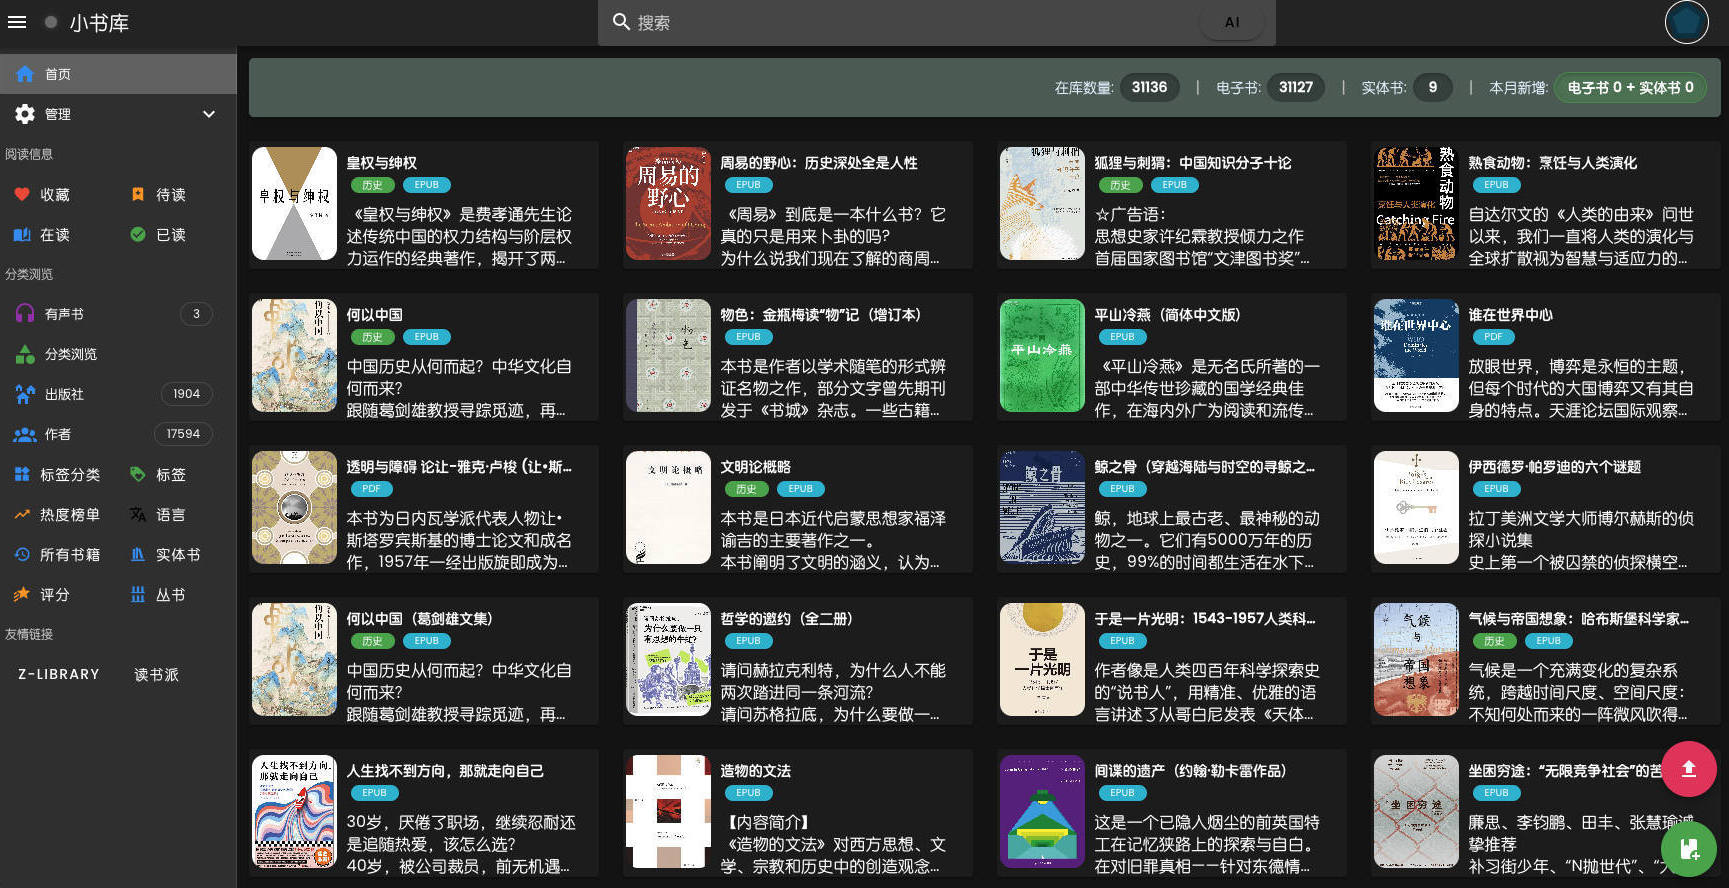
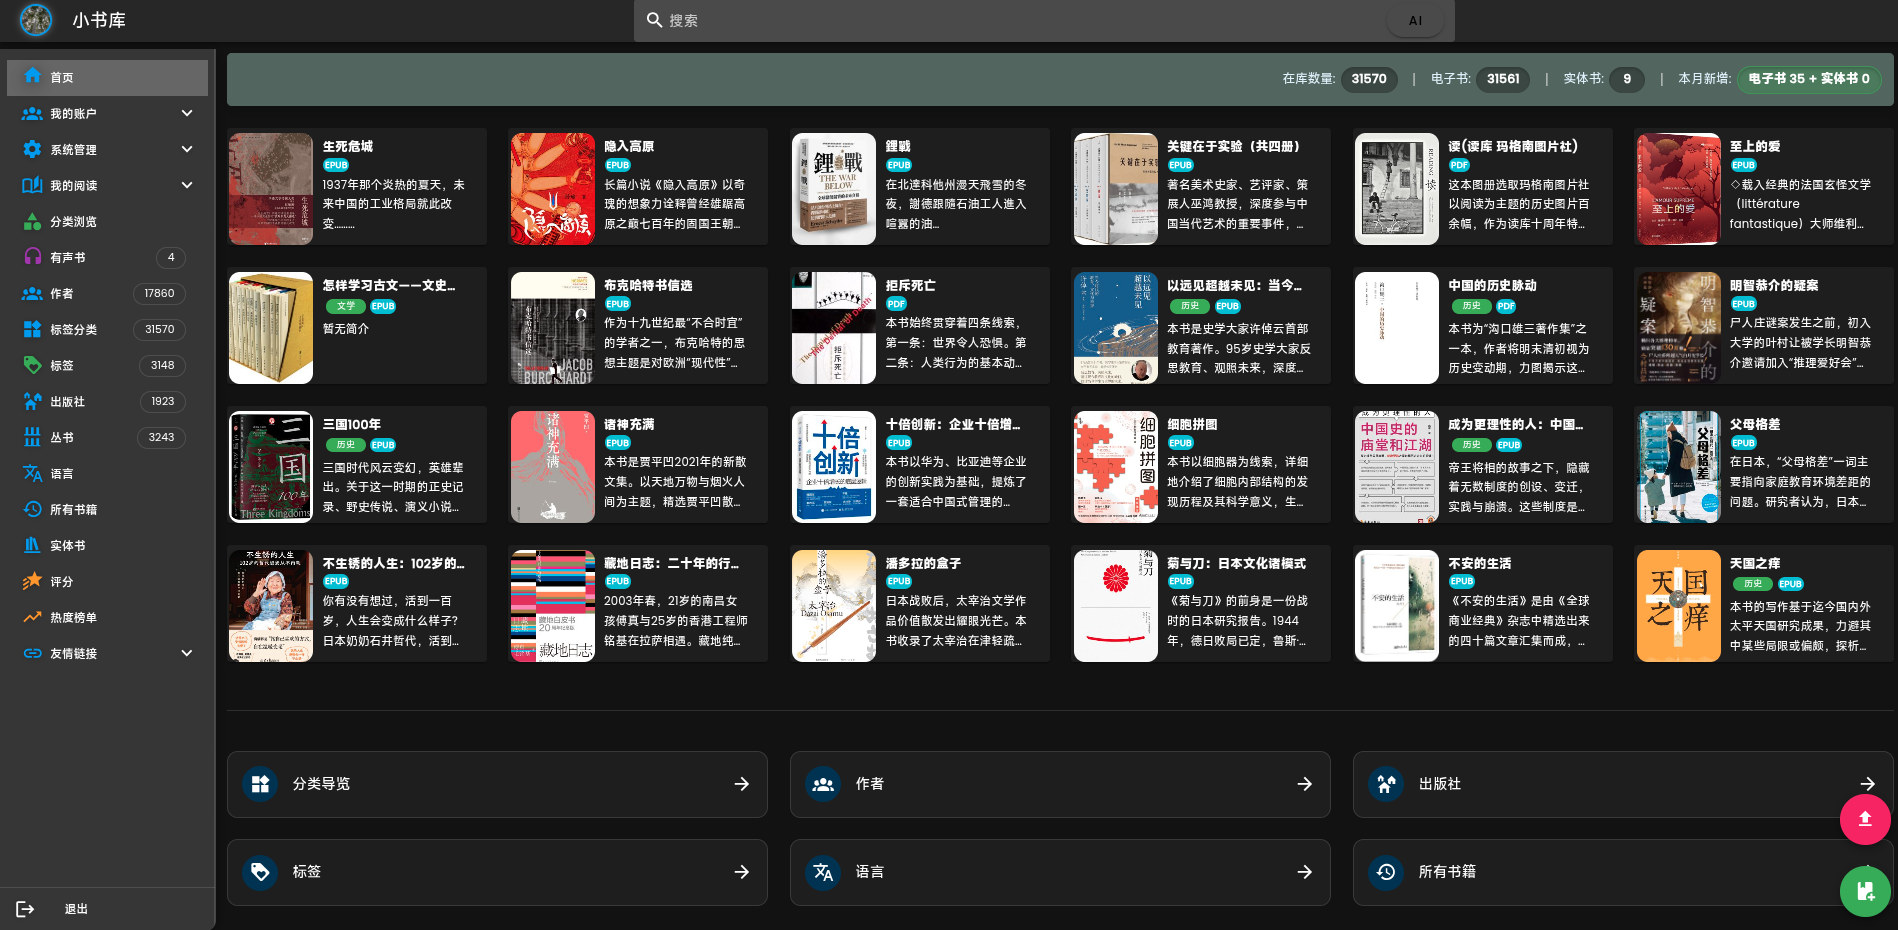
调整下登录按钮

diff --git a/app/src/components/AppHeader.vue b/app/src/components/AppHeader.vue
@@ -485,7 +485,7 @@ export default {
                 { icon: "mdi-home-group", href: "/publisher", text: "appHeader.publishers", count: this.sys.publishers, color: "primary"},
                 { icon: "mdi-library-shelves", href: "/series", text: "appHeader.series", count: this.sys.series, color: "primary"},
                 { icon: "mdi-translate", href: "/language", text: "appHeader.languages", color: "primary"},
-                { icon: "mdi-history", href: "/all", text: "appHeader.allBooks", color: "primary"},
+                { icon: "mdi-check-all", href: "/all", text: "appHeader.allBooks", color: "primary"},
                 { icon: "mdi-bookshelf", href: "/printbooks", text: "appHeader.physicalBooks", color: "primary"},
                 { icon: "mdi-star-shooting", href: "/rating", text: "appHeader.rating", color: "orange"},
                 { icon: "mdi-trending-up", href: "/hot", text: "appHeader.hotRanking", color: "orange"},
@@ -941,8 +941,9 @@ export default {
 }
 
 .login-button .v-icon {
-    color: white;
+    color: white !important;
     background-color: transparent !important;
+    margin-left: 12px !important;
 }
 
 .app-navigation-drawer .v-subheader {